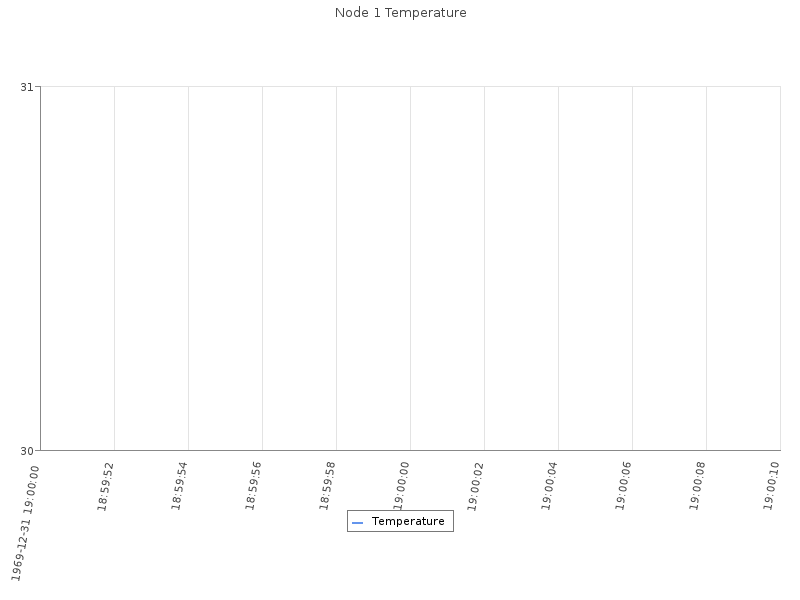
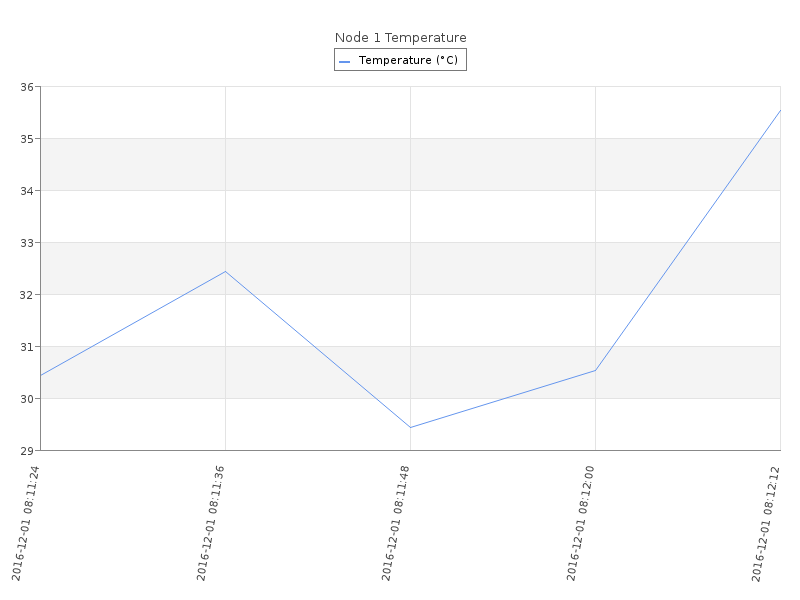
Fixed graphing formatting and added units to some categories

diff --git a/graph.php b/graph.php
@@ -23,6 +23,8 @@ function make_base_graph($title, $time) {
 	$theme_class = new UniversalTheme;
 	$graph->SetTheme($theme_class);
 	$graph->title->Set($title);
+	$graph->title->SetMargin(30);
+	$graph->legend->SetPos(0.5,0.08,'center','top');
 	$graph->SetBox(false);
 	$graph->yaxis->HideZeroLabel();
 	$graph->yaxis->HideLine(false);
@@ -114,7 +116,7 @@ function make_base_graph($title, $time) {
 		$dust_data = array();
 		if (!is_null($result)) {
 			while ($curr_row = $result->fetch_assoc()) {
-				$time_data[] = date("Y-m-d H:i:s", strtotime($curr_row["timestamp"]));
+				$time_data[] = date("Y-m-d H:i:s", strtotime($curr_row["t_collected"]));
 				$temp_data[] = $curr_row["temperature"];
 				$hum_data[] = $curr_row["humidity"];
 				$dust_data[] = $curr_row["dust"];
@@ -131,12 +133,12 @@ function make_base_graph($title, $time) {
 			$p1 = new LinePlot($temp_data);
 			$temp_graph->Add($p1);
 			$p1->SetColor("#6495ED");
-			$p1->SetLegend('Temperature');
+			$p1->SetLegend('Temperature (°C)');
 
 			$p2 = new LinePlot($hum_data);
 			$hum_graph->Add($p2);
 			$p2->SetColor("#B22222");
-			$p2->SetLegend('Humidity');
+			$p2->SetLegend('Humidity (%)');
 
 			$p3 = new LinePlot($dust_data);
 			$dust_graph->Add($p3);

diff --git a/index.php b/index.php
@@ -150,8 +150,8 @@ function make_row($row) {
 				<thead>
 					<tr>
 						<th>Dust</th>
-						<th>Humidity</th>
-						<th>Temperature</th>
+						<th>Humidity (%)</th>
+						<th>Temperature (°C)</th>
 						<th>Time Collected</th>
 						<th>Node ID</th>
 					</tr>
